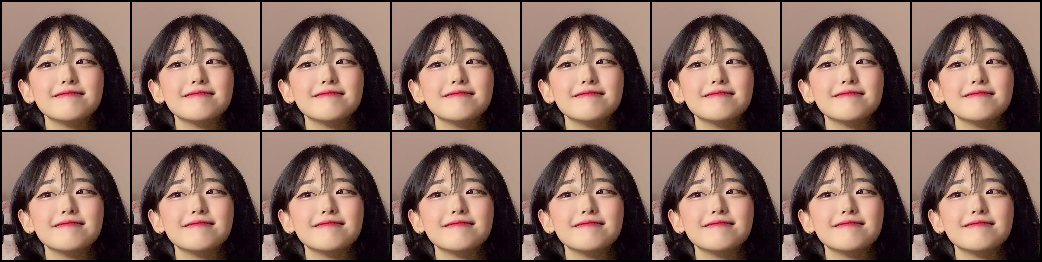
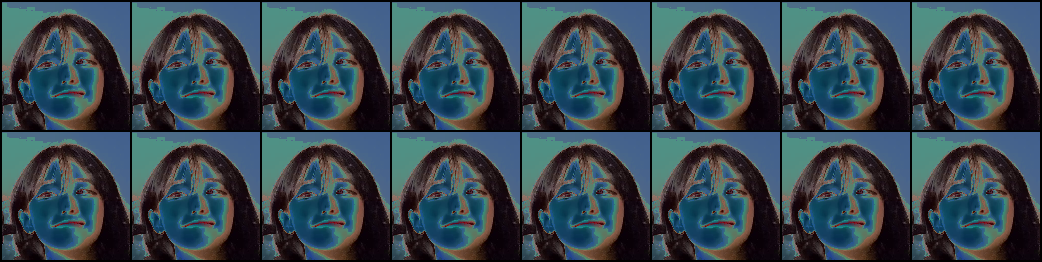
f

diff --git a/datasets/tad_dataset.py b/datasets/tad_dataset.py
@@ -12,6 +12,8 @@ import os.path as osp
 
 import h5py
 import ipdb as pdb
+import kornia.augmentation as KA
+import kornia.enhance as KE
 import numpy as np
 import pandas as pd
 import torch
@@ -77,16 +79,16 @@ class TADDataset(torch.utils.data.Dataset):
         self.crop_size = crop_size
         self.rand_augment_param = rand_augment_param
         self._prepare()
-        if mode == 'train':
-            self.transform = self._train_transform
-        else:
-            self.transform = video_transforms.Compose([
-                video_transforms.Resize(self.short_side_size, interpolation='bilinear'),
-                video_transforms.CenterCrop(size=(self.crop_size, self.crop_size)),
-                volume_transforms.ClipToTensor(),
-                video_transforms.Normalize(mean=[0.485, 0.456, 0.406],
-                                           std=[0.229, 0.224, 0.225])
-            ])
+        # if mode == 'train':
+        #     self.transform = self._train_transform
+        # else:
+        #     self.transform = video_transforms.Compose([
+        #         video_transforms.Resize(self.short_side_size, interpolation='bilinear'),
+        #         video_transforms.CenterCrop(size=(self.crop_size, self.crop_size)),
+        #         volume_transforms.ClipToTensor(),
+        #         video_transforms.Normalize(mean=[0.485, 0.456, 0.406],
+        #                                    std=[0.229, 0.224, 0.225])
+        #     ])
 
     def _train_transform(self, imgs):
         transform = create_random_augment(imgs[0].size, self.rand_augment_param, "bilinear")
@@ -256,10 +258,11 @@ class TADDataset(torch.utils.data.Dataset):
 
             if len(imgs) < dst_sample_frames:
                 # try:
-                # imgs = np.pad(imgs, ((0, dst_sample_frames - len(imgs)), (0, 0), (0, 0), (0, 0)), mode='constant', constant_values=128)
-
-                tmp = Image.new("RGB", imgs[0].size, (128, 128, 128))
-                imgs += [tmp for i in range(dst_sample_frames - len(imgs))]
+                if isinstance(imgs, np.array):
+                    imgs = np.pad(imgs, ((0, dst_sample_frames - len(imgs)), (0, 0), (0, 0), (0, 0)), mode='constant', constant_values=128)
+                else:
+                    tmp = Image.new("RGB", imgs[0].size, (128, 128, 128))
+                    imgs += [tmp for i in range(dst_sample_frames - len(imgs))]
                 # except:
                 #     pdb.set_trace()
                 self.video_dict[video_name]['feature_length'] = self.slice_len
@@ -279,9 +282,11 @@ class TADDataset(torch.utils.data.Dataset):
                 dst_sample_frames = dst_clip_length // self.img_stride
 
                 if len(imgs) < dst_sample_frames:
-                    # imgs = np.pad(imgs, ((0, dst_sample_frames - len(imgs)), (0, 0), (0, 0), (0, 0)), mode='constant', constant_values=128)
-                    tmp = Image.new("RGB", imgs[0].size, (128, 128, 128))
-                    imgs += [tmp for i in range(dst_sample_frames - len(imgs))]
+                    if isinstance(imgs, np.array):
+                        imgs = np.pad(imgs, ((0, dst_sample_frames - len(imgs)), (0, 0), (0, 0), (0, 0)), mode='constant', constant_values=128)
+                    else:
+                        tmp = Image.new("RGB", imgs[0].size, (128, 128, 128))
+                        imgs += [tmp for i in range(dst_sample_frames - len(imgs))]
 
                 else:
                     imgs = imgs[:dst_sample_frames]
@@ -345,6 +350,20 @@ class TADDataset(torch.utils.data.Dataset):
         return video_data, target
 
 
+class GPUAugment:
+    def __init__(self, transforms):
+        self.transforms = transforms
+
+    def __call__(self, tensors):
+        tensors = rearrange(tensors, "b c t h w -> b t c h w")
+        # tensors = [rearrange(x, "c t h w -> t c h w") for x in tensors]
+        for op in self.transforms:
+            tensors = torch.stack([op(x) for x in tensors])
+
+        tensors = rearrange(tensors, "b t c h w -> b c t h w")
+        return tensors
+
+
 def build(dataset, subset, args, mode):
     '''build TADDataset'''
     subset_mapping, feature_info, ann_file, ft_info_file = get_dataset_info(dataset, args.feature)
@@ -355,10 +374,18 @@ def build(dataset, subset, args, mode):
         elif args.encoder == 'slowfast' or 'video_mae' in args.encoder or args.backbone.startswith('ts'):
             mean, std = ([123.675, 116.28, 103.53], [58.395, 57.12, 57.375])
         is_training = mode == 'train' and not args.fix_transform
-        transforms = make_img_transform(
+        transforms, gpu_transforms = make_img_transform(
             is_training=is_training, mean=mean, std=std, resize=args.img_resize, crop=args.img_crop_size, keep_asr=args.resize_keep_asr)
+        # transforms = None
+        # gpu_transforms = GPUAugment([
+        #     KA.RandomAffine(30, translate=0.1, shear=0.3, p=0.5, same_on_batch=True),
+        #     KA.ColorJiggle(0.125, 0.5, 0.5, 0.1, p=0.5, same_on_batch=True),
+        #     KA.RandomHorizontalFlip(p=0.5, same_on_batch=True),
+        #     KE.Normalize(mean=torch.tensor(mean) / 255, std=torch.tensor(std) / 255),
+        # ])
     else:
         transforms = None
+        gpu_transforms = None
 
     return TADDataset(
         subset_mapping[subset], mode, feature_info, ann_file, ft_info_file, transforms,
@@ -367,4 +394,4 @@ def build(dataset, subset, args, mode):
         input_type=args.input_type,
         resize=args.img_resize,
         crop_size=args.img_crop_size,
-        rand_augment_param=args.rand_augment_param)
+        rand_augment_param=args.rand_augment_param), gpu_transforms

diff --git a/datasets/e2e_lib/__init__.py b/datasets/e2e_lib/__init__.py
@@ -32,17 +32,17 @@ def load_video_frames(frame_dir, start, seq_len, stride=1, fn_tmpl='img_%07d.jpg
         #     # img = img[:, :, [2, 1, 0]]  # BGR => RGB, moved to video_transforms.Normalize
         #     # img = (img/255.)*2 - 1
         #     frames.append(img)
-        # frames = [cv2.imread(os.path.join(frame_dir, fn_tmpl % i))
-        #     for i in range(start + stride // 2, start + seq_len, stride)]
-        frames = [Image.open(os.path.join(frame_dir, fn_tmpl % i))
+        frames = [cv2.imread(os.path.join(frame_dir, fn_tmpl % i))
             for i in range(start + stride // 2, start + seq_len, stride)]
+        # frames = [Image.open(os.path.join(frame_dir, fn_tmpl % i))
+        #     for i in range(start + stride // 2, start + seq_len, stride)]
     else:
         # load all frames
         num_imgs = len(os.listdir(frame_dir))
-        # frames = [cv2.imread(os.path.join(frame_dir, fn_tmpl % (i+1))) for i in range(num_imgs)]
-        frames = [Image.open(os.path.join(frame_dir, fn_tmpl % (i+1))) for i in range(num_imgs)]
-    # return np.asarray(frames, dtype=np.float32)  # NHWC
-    return frames
+        frames = [cv2.imread(os.path.join(frame_dir, fn_tmpl % (i+1))) for i in range(num_imgs)]
+        # frames = [Image.open(os.path.join(frame_dir, fn_tmpl % (i+1))) for i in range(num_imgs)]
+    return np.asarray(frames, dtype=np.float32)  # NHWC
+    # return frames
 
 
 def make_img_transform(is_training, resize=110, crop=96, mean=127.5, std=127.5, keep_asr=True):

diff --git a/engine.py b/engine.py
@@ -24,7 +24,7 @@ from datasets.tad_eval import TADEvaluator
 
 def train_one_epoch(model: torch.nn.Module, criterion: torch.nn.Module,
                     data_loader: Iterable, optimizer: torch.optim.Optimizer,
-                    device: torch.device, epoch: int, cfg, max_norm: float = 0):
+                    device: torch.device, epoch: int, cfg, max_norm: float = 0, gpu_transforms=None):
     model.train()
     criterion.train()
 
@@ -37,6 +37,8 @@ def train_one_epoch(model: torch.nn.Module, criterion: torch.nn.Module,
 
     for samples, targets in metric_logger.log_every(data_loader, print_freq, header):
         samples = samples.to(device)
+        if gpu_transforms is not None:
+            samples.tensors = gpu_transforms(samples.tensors)
         targets = [{k: v.to(device) if k in ['segments', 'labels']
                     else v for k, v in t.items()} for t in targets]
 

diff --git a/main.py b/main.py
@@ -164,9 +164,9 @@ def main(args):
     lr_scheduler = torch.optim.lr_scheduler.MultiStepLR(
         optimizer, cfg.lr_step, last_epoch=last_epoch)
 
-    dataset_val = build_dataset(subset=cfg.test_set, args=cfg, mode='val')
+    dataset_val, _ = build_dataset(subset=cfg.test_set, args=cfg, mode='val')
     if not args.eval:
-        dataset_train = build_dataset(subset='train', args=cfg, mode='train')
+        dataset_train, gpu_transforms = build_dataset(subset='train', args=cfg, mode='train')
 
     if args.distributed:
         if not args.eval:
@@ -237,7 +237,7 @@ def main(args):
             logging.info('lr={}'.format(group['lr']))
         train_stats = train_one_epoch(
             model, criterion, data_loader_train, optimizer, device, epoch, cfg,
-            cfg.clip_max_norm)
+            cfg.clip_max_norm, gpu_transforms)
 
         lr_scheduler.step()
 

diff --git a/t.py b/t.py
@@ -113,7 +113,7 @@ buffer = [img for i in range(16)]
 # AugmentOp()
 # img = repeat(img, "c h w -> b t c h w", b=4, t=8)
 # transform = create_random_augment(buffer[0].size, "rand-m7-n4-mstd0.5-inc1", "bilinear")
-transform = create_random_augment(buffer[0].size, "rand-m1-n4-mstd0.5-inc1", "bilinear")
+transform = create_random_augment(buffer[0].size, "rand-m4-n3-mstd0.5-inc1", "bilinear")
 buffer = transform(buffer)
 
 buffer = [transforms.ToTensor()(img) for img in buffer]
